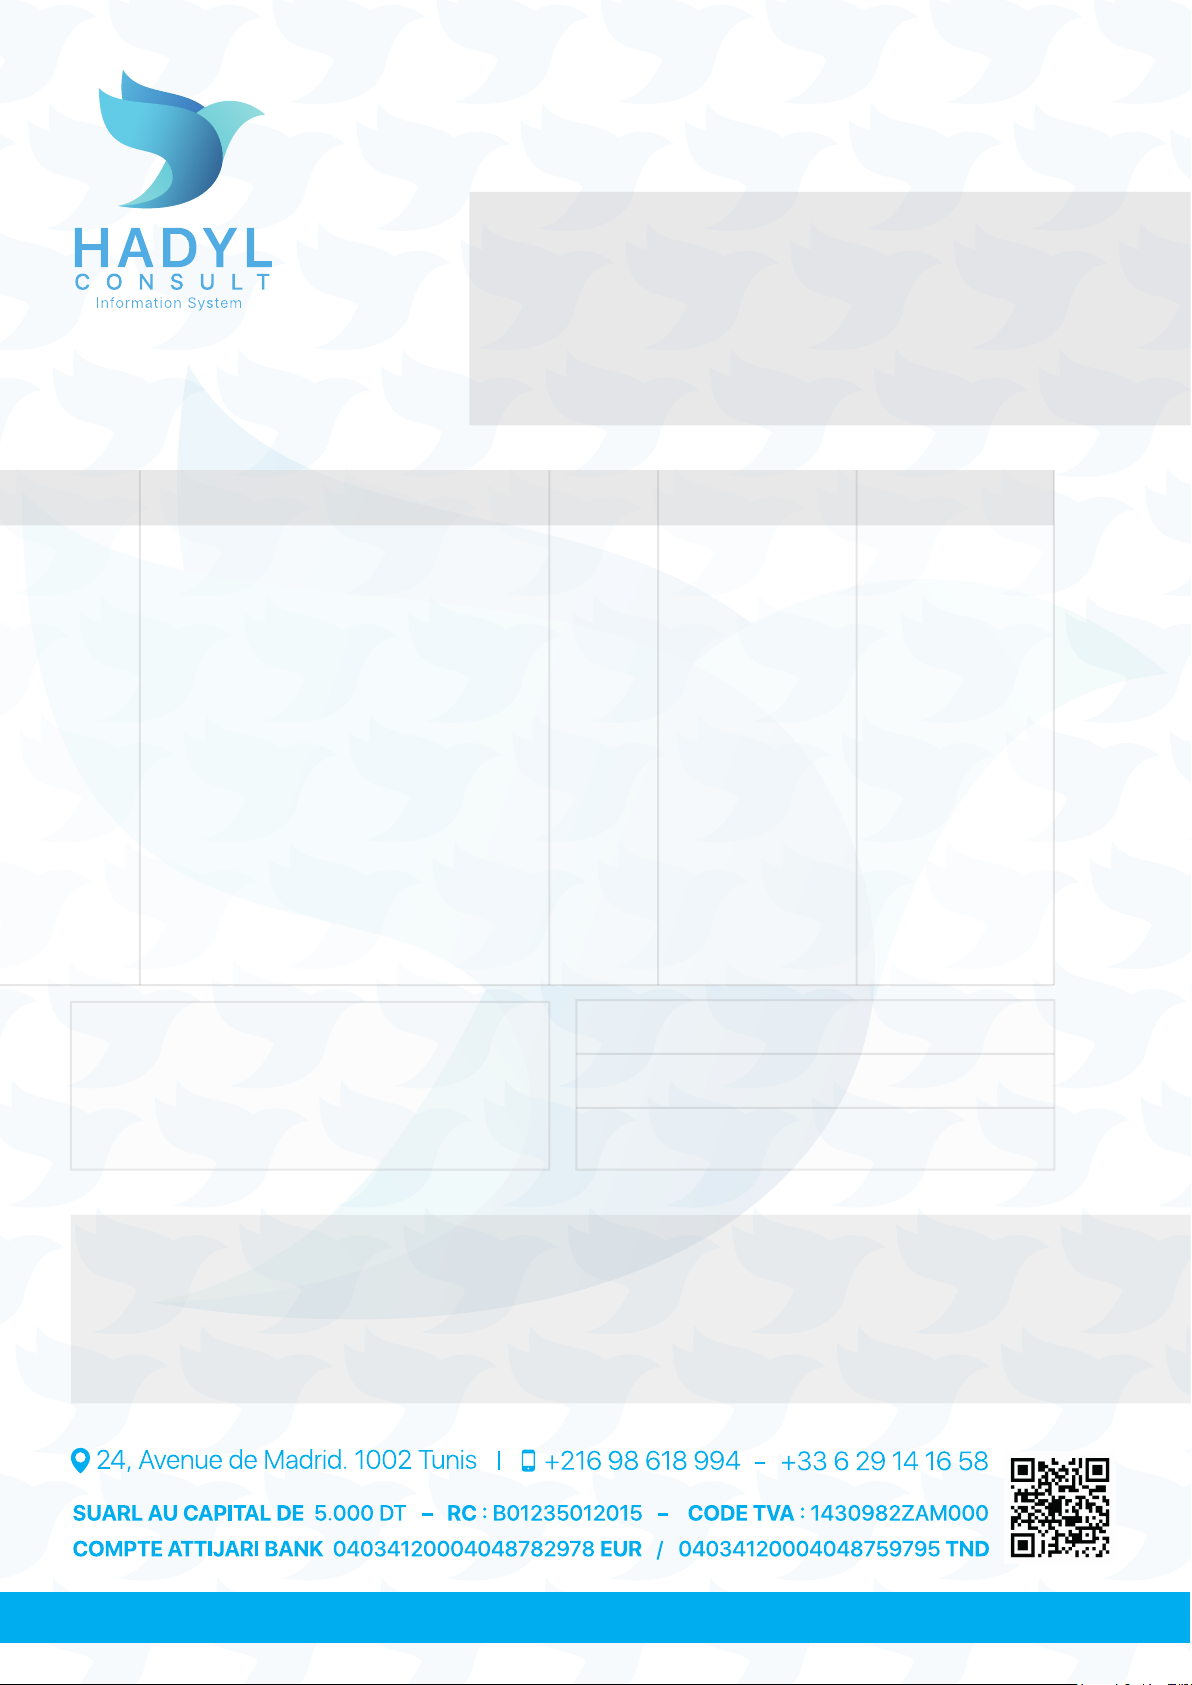
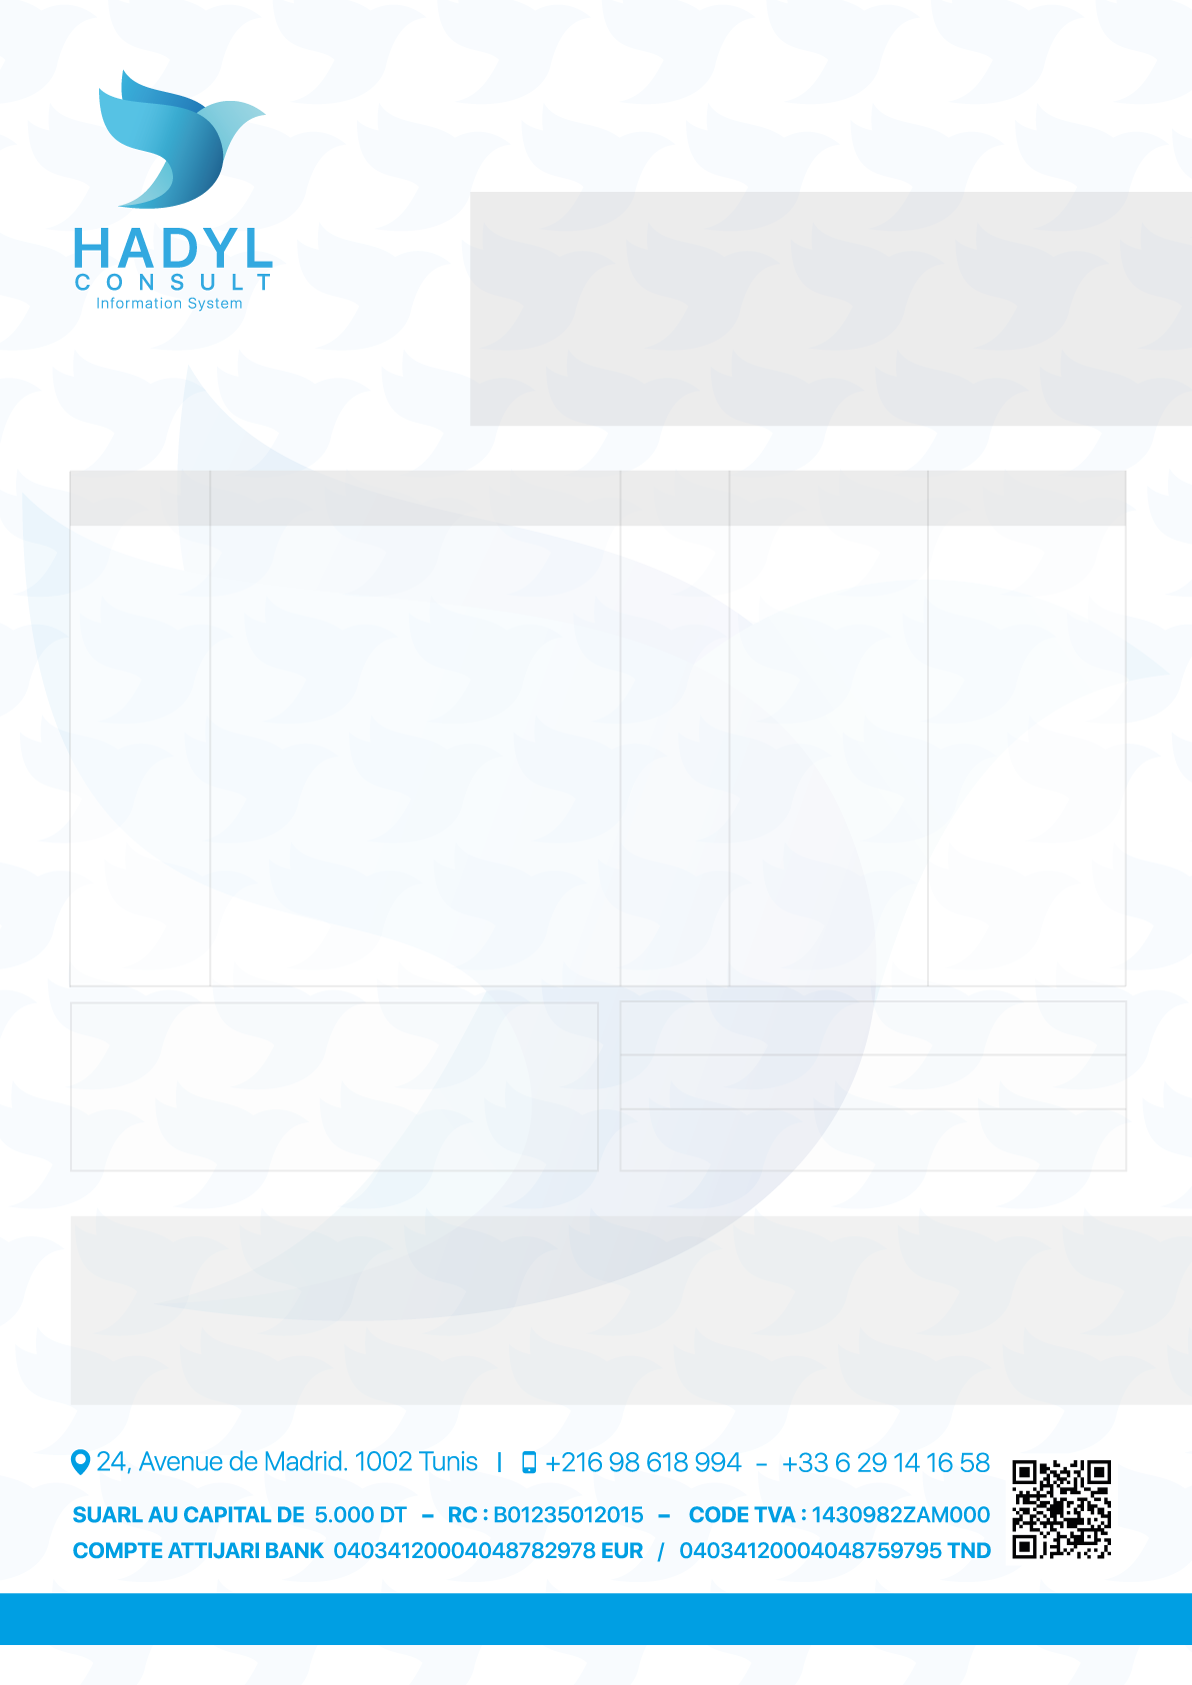
main table declination

diff --git a/src/index.scss b/src/index.scss
@@ -66,7 +66,7 @@ body {
     position: absolute;
     font-size: 18px !important;
     top: 410px;
-    left: 50px;
+    left: 90px;
     z-index: 999;
     td {
       vertical-align: top;
@@ -74,13 +74,13 @@ body {
     .input-item-qty {
       text-align: center;
       width: 40px;
-      margin-right: 30px;
+      margin-right: 35px;
       font-size: inherit !important;
     }
     .input-item-desc {
       width: 275px;
-      max-width: 275px;
-      margin-right: 20px;
+      max-width: 285px;
+      margin-right: 25px;
       font-size: inherit !important;
     }
     .input-item-unit {
@@ -106,7 +106,7 @@ body {
     font-size: 0.6cm;
     font-weight: normal;
     top: 755px;
-    left: 440px;
+    left: 480px;
     width: 4cm;
     z-index: 999;
   }
@@ -115,7 +115,17 @@ body {
     font-size: 0.6cm;
     font-weight: normal;
     top: 795px;
-    left: 440px;
+    left: 480px;
+    width: 4cm;
+    z-index: 999;
+  }
+  .input-net-text {
+    position: absolute;
+    font-family: "Lato", sans-serif;
+    font-size: 0.7cm;
+    font-weight: bold;
+    top: 835px;
+    left: 480px;
     width: 4cm;
     z-index: 999;
   }
@@ -125,7 +135,7 @@ body {
     font-size: 0.65cm;
     font-weight: normal;
     top: 755px;
-    left: 625px;
+    left: 670px;
     width: 4cm;
     z-index: 999;
   }
@@ -135,7 +145,7 @@ body {
     font-size: 0.65cm;
     font-weight: normal;
     top: 795px;
-    left: 625px;
+    left: 670px;
     width: 4cm;
     z-index: 999;
   }
@@ -145,7 +155,7 @@ body {
     font-size: 0.7cm;
     font-weight: bold;
     top: 835px;
-    left: 590px;
+    left: 635px;
     width: 5cm;
     z-index: 999;
   }
@@ -217,20 +227,22 @@ body {
     z-index: 999;
     max-width: 850px;
     top: 480px;
-    left: 1cm;
+    left: 2.5cm;
     td {
       vertical-align: top;
     }
     .input-item-qty {
       text-align: center;
       width: 2cm;
-      margin-right: 0.5cm;
+      margin-right: 1cm;
       font-size: 0.6cm;
     }
     .input-item-desc {
       font-size: 0.6cm;
       width: 8.5cm;
+      max-width: 8.5cm;
       margin-right: 1cm;
+      line-height: normal !important;
     }
     .input-item-unit {
       text-align: center;
@@ -255,8 +267,8 @@ body {
     position: absolute;
     font-size: 0.6cm;
     font-weight: normal;
-    top: 900px;
-    left: 525px;
+    top: 23.75cm;
+    left: 15cm;
     width: 4cm;
     z-index: 999;
   }
@@ -264,8 +276,18 @@ body {
     position: absolute;
     font-size: 0.6cm;
     font-weight: normal;
-    top: 945px;
-    left: 525px;
+    top: 25cm;
+    left: 15cm;
+    width: 4cm;
+    z-index: 999;
+  }
+  .input-net-text {
+    position: absolute;
+    font-family: "Lato", sans-serif;
+    font-size: 0.75cm;
+    font-weight: bold;
+    top: 26.25cm;
+    left: 15cm;
     width: 4cm;
     z-index: 999;
   }
@@ -274,8 +296,8 @@ body {
     text-align: right;
     font-size: 0.65cm;
     font-weight: normal;
-    top: 895px;
-    left: 765px;
+    top: 23.75cm;
+    left: 22cm;
     width: 4cm;
     z-index: 999;
   }
@@ -284,8 +306,8 @@ body {
     text-align: right;
     font-size: 0.65cm;
     font-weight: normal;
-    top: 945px;
-    left: 765px;
+    top: 25cm;
+    left: 22cm;
     width: 4cm;
     z-index: 999;
   }
@@ -294,8 +316,8 @@ body {
     text-align: right;
     font-size: 0.7cm;
     font-weight: bold;
-    top: 995px;
-    left: 730px;
+    top: 26.25cm;
+    left: 21cm;
     width: 5cm;
     z-index: 999;
   }

diff --git a/public/css/style.min.css b/public/css/style.min.css
@@ -32,11 +32,11 @@
 .fst{margin-top:-65px;font-family:"Lato",sans-serif;}
 .fst td{padding: 10px}
 .fst th{text-align: left;padding-right:50px}
-.t-c-1{position:absolute;bottom:875px;left:55px;font-family:"Lato",sans-serif;font-size:20px}
-.t-c-2{position:absolute;bottom:875px;left:225px;font-family:"Lato",sans-serif;font-size:20px}
-.t-c-3{position:absolute;bottom:875px;left:435px;font-family:"Lato",sans-serif;font-size:20px}
-.t-c-4{position:absolute;bottom:875px;left:525px;font-family:"Lato",sans-serif;font-size:20px}
-.t-c-5{position:absolute;bottom:875px;left:685px;font-family:"Lato",sans-serif;font-size:20px}
+.t-c-1{position:absolute;bottom:875px;left:90px;font-family:"Lato",sans-serif;font-size:20px}
+.t-c-2{position:absolute;bottom:875px;left:260px;font-family:"Lato",sans-serif;font-size:20px}
+.t-c-3{position:absolute;bottom:875px;left:490px;font-family:"Lato",sans-serif;font-size:20px}
+.t-c-4{position:absolute;bottom:875px;left:580px;font-family:"Lato",sans-serif;font-size:20px}
+.t-c-5{position:absolute;bottom:875px;left:730px;font-family:"Lato",sans-serif;font-size:20px}
 .fc1{color:rgb(244,244,244);}
 .fc0{color:rgb(35,31,32);}
 .fs4{font-size:48.000000px;}
@@ -95,11 +95,11 @@
     ._a{width:74.419200pt;}
     ._b{width:82.901333pt;}
     ._3{width:118.396444pt;}
-    .t-c-1{position:absolute;bottom:27.5cm;left:1.5cm;font-family:"Lato",sans-serif;font-size:20px}
-    .t-c-2{position:absolute;bottom:27.5cm;left:6.75cm;font-family:"Lato",sans-serif;font-size:20px}
-    .t-c-3{position:absolute;bottom:27.5cm;left:13.75cm;font-family:"Lato",sans-serif;font-size:20px}
-    .t-c-4{position:absolute;bottom:27.5cm;left:16.75cm;font-family:"Lato",sans-serif;font-size:20px}
-    .t-c-5{position:absolute;bottom:27.5cm;left:21.5cm;font-family:"Lato",sans-serif;font-size:20px}
+    .t-c-1{position:absolute;bottom:27.5cm;left:3cm;font-family:"Lato",sans-serif;font-size:20px}
+    .t-c-2{position:absolute;bottom:27.5cm;left:8.25cm;font-family:"Lato",sans-serif;font-size:20px}
+    .t-c-3{position:absolute;bottom:27.5cm;left:15.25cm;font-family:"Lato",sans-serif;font-size:20px}
+    .t-c-4{position:absolute;bottom:27.5cm;left:18.25cm;font-family:"Lato",sans-serif;font-size:20px}
+    .t-c-5{position:absolute;bottom:27.5cm;left:23cm;font-family:"Lato",sans-serif;font-size:20px}
     .fs4{font-size:42.666667pt;}
     .fs2{font-size:49.777778pt;}
     .fs1{font-size:56.888889pt;}

diff --git a/public/index.html b/public/index.html
@@ -27,7 +27,7 @@
       <span class="t-c-3">Unit</span>
       <span class="t-c-4">Unit price</span>
       <span class="t-c-5">Amount</span>
-      <div class="t m0 x5 h6 y6 ff1 fs3 fc0 sc0 ls0 ws0">Net to pay</div>
+      <div class="input-net-text">Net to pay</div>
       <div class="t m0 x6 h7 y7 ff3 fs1 fc1 sc0 ls0 ws0">SAP  Integration  -  Maintenance  -  Support</div>
       <div class="t m0 x7 h8 y8 ff1 fs4 fc0 sc0 ls0 ws0">Payment Details</div>
       <div class="t m0 x7 h9 y9 ff4 fs4 fc0 sc0 ls0 ws0">

diff --git a/src/App.tsx b/src/App.tsx
@@ -129,7 +129,6 @@ function App() {
                   className="input-item-desc"
                   placeholder="Item name and/or description"
                   bordered={false}
-                  rows={1}
                   value={item.desc}
                   onChange={(e) =>
                     setItems(
